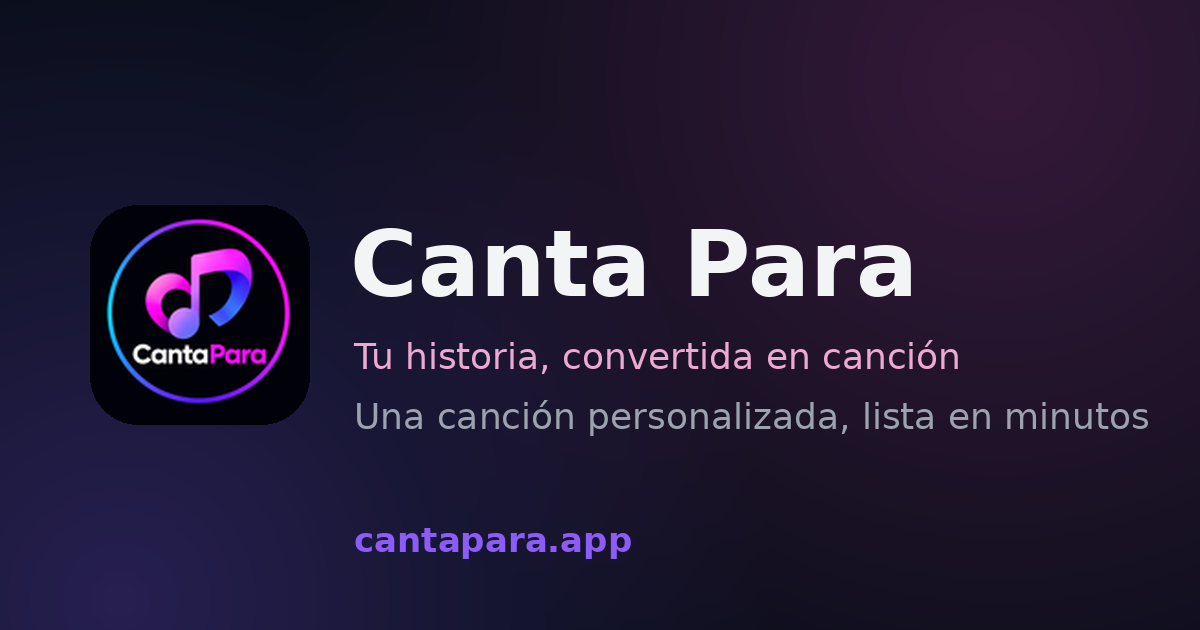
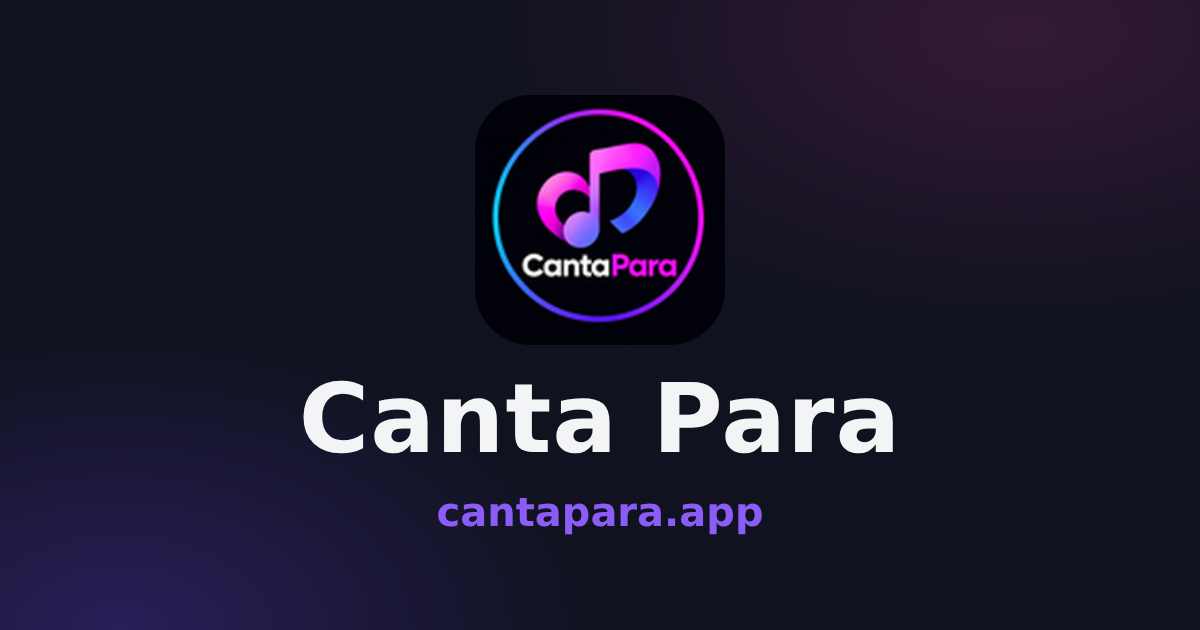
Vista previa al compartir: nuevo título e imagen (borrador, sin publicar)
Claude-Session: https://claude.ai/code/session_01H2RCuSCSgxXJ6QsQH3Q4Tp

Changed region(s): [[0.0, 0.1508, 0.9558, 0.7238], [0.2775, 0.7841, 0.6475, 0.9048]]

diff --git a/index.html b/index.html
@@ -12,7 +12,7 @@
 <link rel="apple-touch-icon" href="/apple-touch-icon.png">
 <meta property="og:type" content="website">
 <meta property="og:site_name" content="Canta Para">
-<meta property="og:title" content="Canta Para — Tu historia, convertida en canción">
+<meta property="og:title" content="Dile con música lo que las palabras no alcanzan">
 <meta property="og:description" content="Una canción personalizada para esa persona especial. Recibe 2 versiones listas en minutos.">
 <meta property="og:url" content="https://cantapara.app">
 <meta property="og:image" content="https://cantapara.app/og-image.png">
